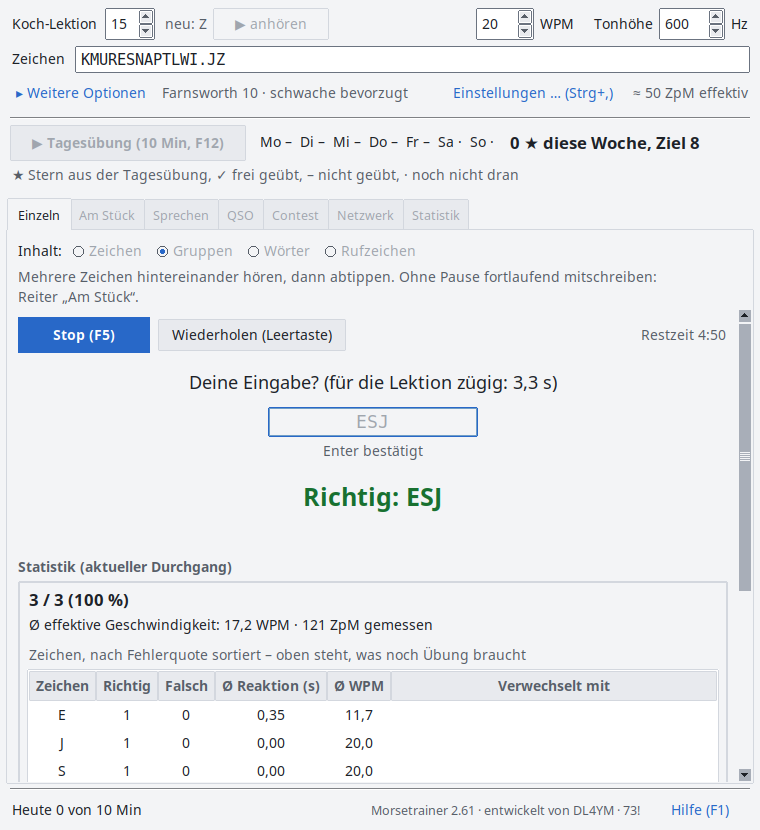
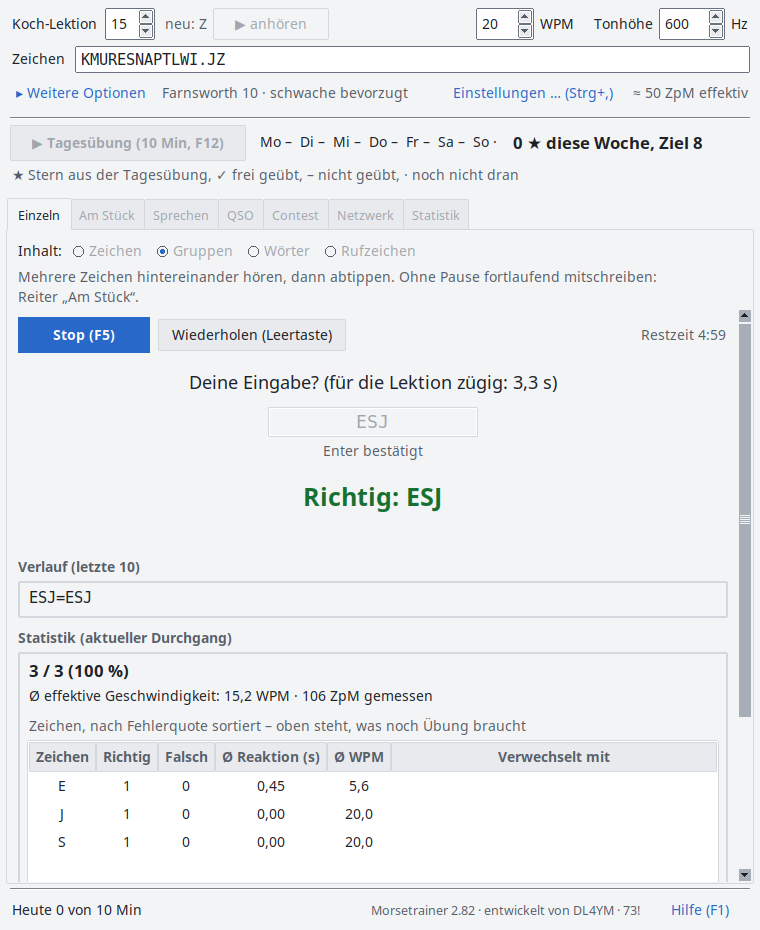
Bild Hauptfenster aktualisiert (2.82), Bildbeschreibung nennt den Verlauf

diff --git a/README.en.md b/README.en.md
@@ -46,7 +46,7 @@ interface. German overview: [README.md](README.md).
 
 ### Copying at Koch speed
 
-<img src="docs/bilder/gruppen.png" width="640" alt="Main window (German interface) in the One by one tab with the content Groups. At the top Koch lesson 15, 20 WPM, 600 Hz and Farnsworth 10. In the middle of a run: the answer field with ESJ, the feedback “Richtig: ESJ” (correct) and below it the statistics of the run, 3 of 3 correct.">
+<img src="docs/bilder/gruppen.png" width="640" alt="Main window (German interface) in the One by one tab with the content Groups. At the top Koch lesson 15, 20 WPM, 600 Hz and Farnsworth 10. In the middle of a run: the answer field with ESJ, the feedback “Richtig: ESJ” (correct) and below it the history and the statistics of the run, 3 of 3 correct.">
 
 ### Award to print
 

diff --git a/README.md b/README.md
@@ -45,7 +45,7 @@ eigenen Rechner oder gemeinsam am Clubabend im lokalen Netz.
 
 ### Mitschreiben im Koch-Tempo
 
-<img src="docs/bilder/gruppen.png" width="640" alt="Hauptfenster im Reiter Einzeln mit dem Inhalt Gruppen. Oben Koch-Lektion 15, 20 WPM, 600 Hz und Farnsworth 10. Mitten im Durchgang: das Antwortfeld mit ESJ, die Rückmeldung „Richtig: ESJ“ und darunter die Statistik des Durchgangs, 3 von 3 richtig.">
+<img src="docs/bilder/gruppen.png" width="640" alt="Hauptfenster im Reiter Einzeln mit dem Inhalt Gruppen. Oben Koch-Lektion 15, 20 WPM, 600 Hz und Farnsworth 10. Mitten im Durchgang: das Antwortfeld mit ESJ, die Rückmeldung „Richtig: ESJ“ und darunter der Verlauf und die Statistik des Durchgangs, 3 von 3 richtig.">
 
 ### Diplom zum Ausdrucken
 
